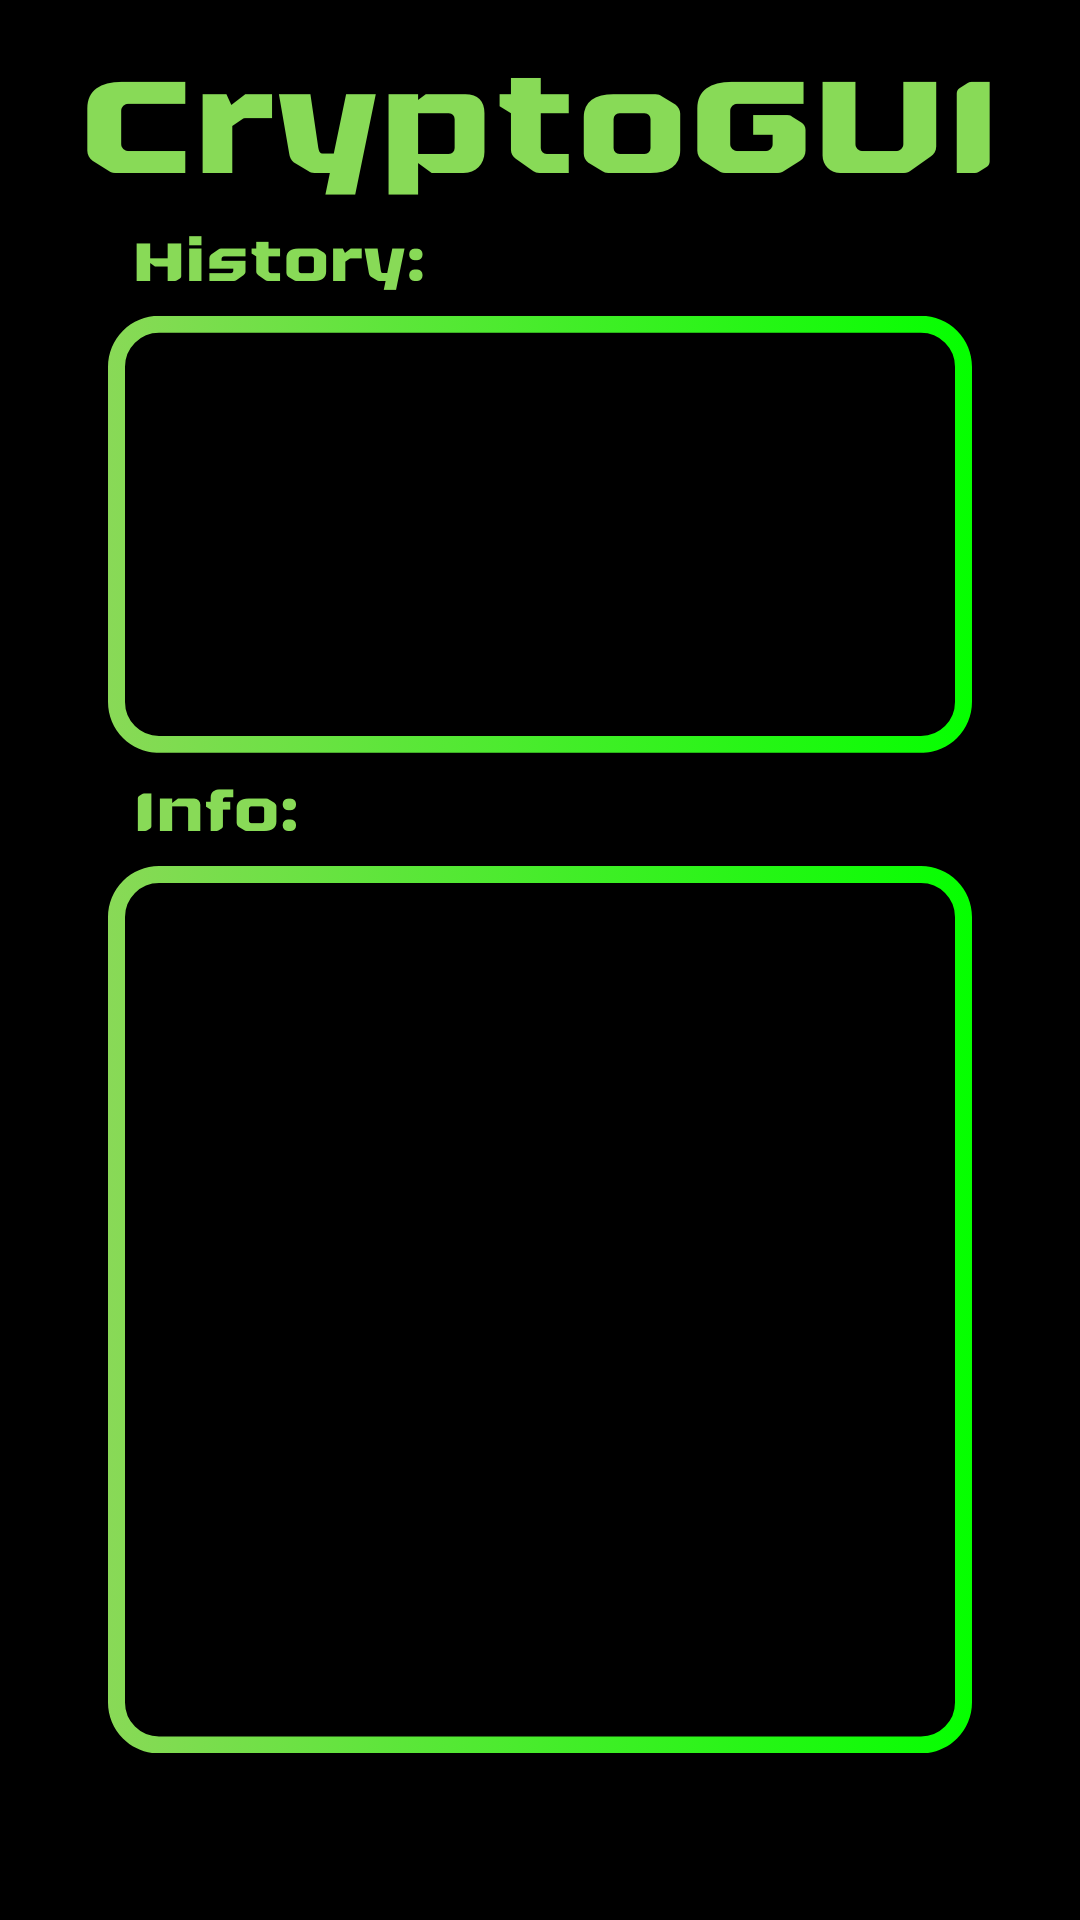
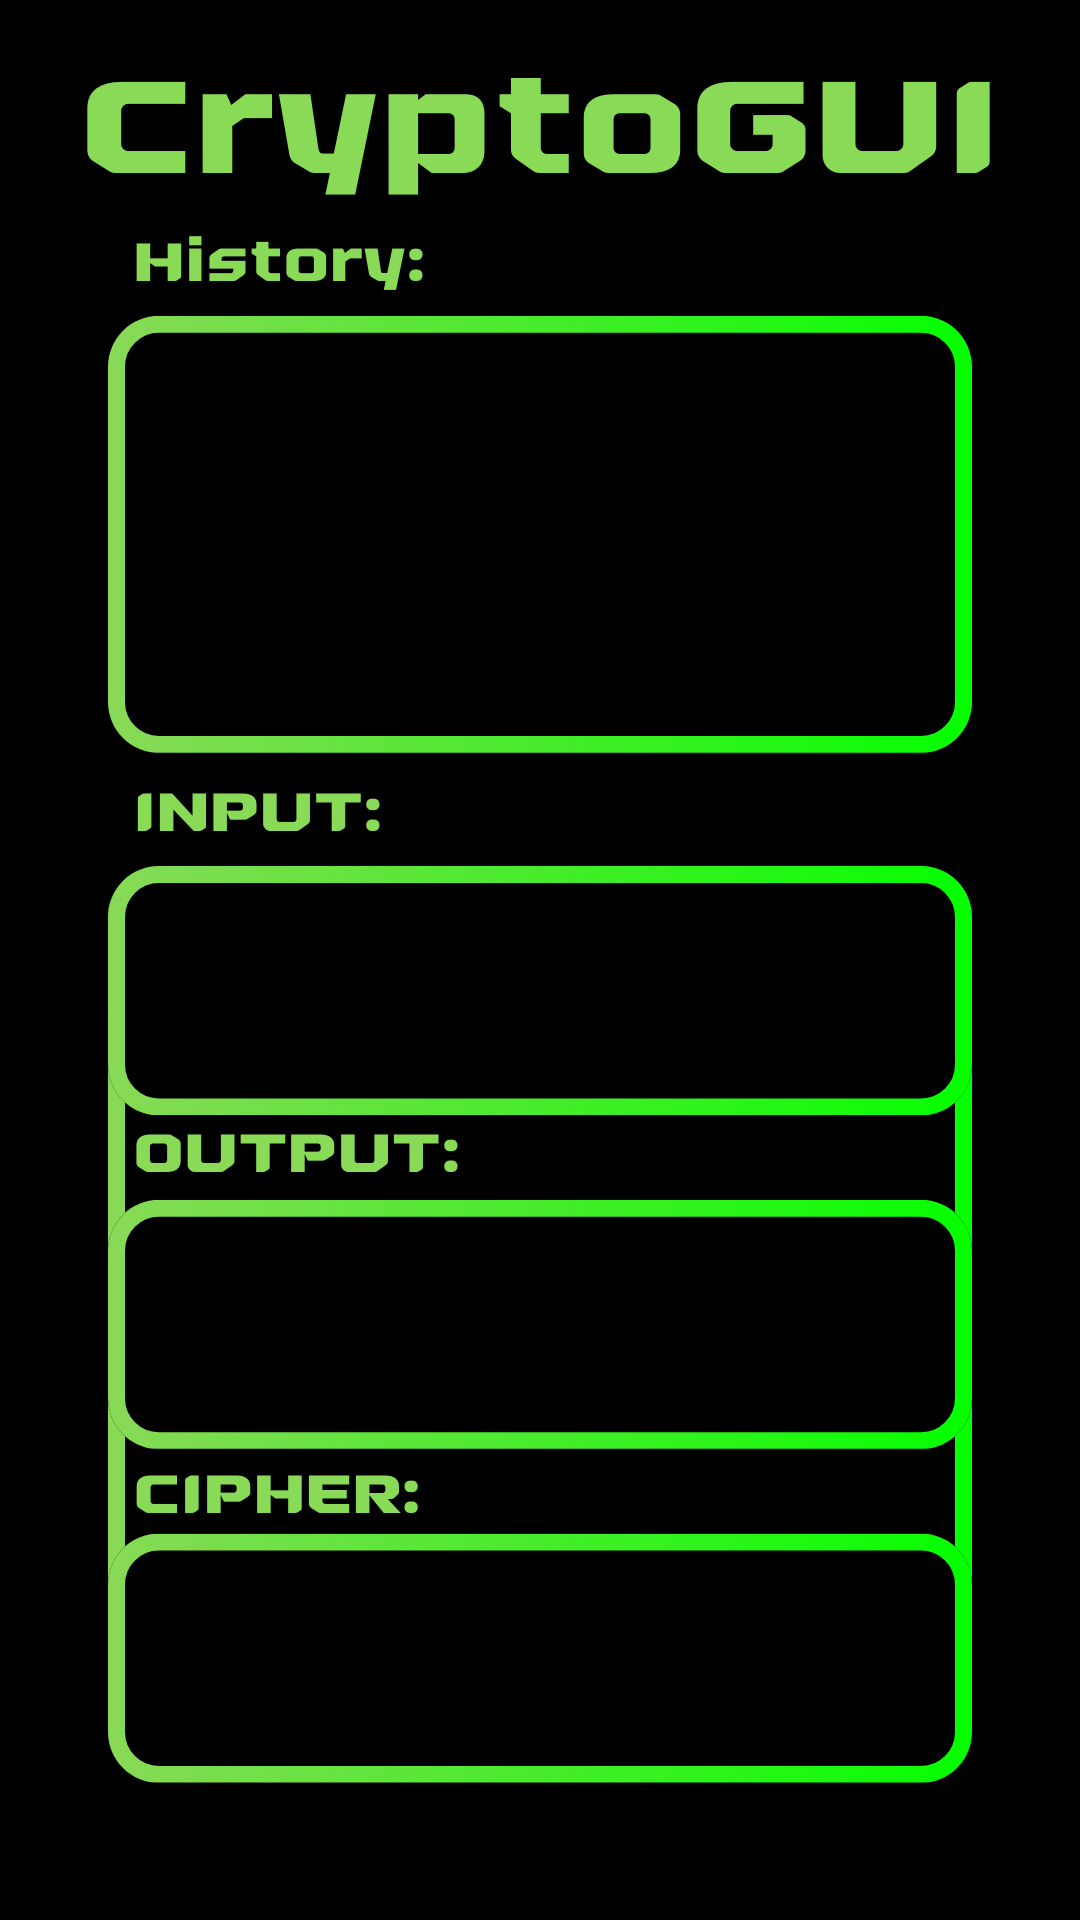
First working version.

diff --git a/Main/Main.go b/Main/Main.go
@@ -4,6 +4,9 @@ import (
 	"CryptoGUI/Base"
 	"CryptoGUI/Binary"
 	"CryptoGUI/Hex"
+	"CryptoGUI/JOSN"
+
+	"time"
 
 	"fyne.io/fyne/v2"
 	"fyne.io/fyne/v2/app"
@@ -16,6 +19,8 @@ func main() {
 	a := app.New()
 	w := a.NewWindow("CryptoGUI")
 	current := "blank"
+	historyload := JOSN.Load()
+
 	background, _ := fyne.LoadResourceFromPath("CryptoGUI.png")
 	back := canvas.NewImageFromResource(background)
 	back.FillMode = canvas.ImageFillStretch
@@ -26,18 +31,29 @@ func main() {
 	in.Resize(fyne.NewSize(232, 40))
 
 	view := widget.NewMultiLineEntry()
-	//view.Disable()
+
 	view.Move(fyne.NewPos(35, 275))
 	view.Resize(fyne.NewSize(232, 175))
-	ciphers := []string{"Base64", "Base32", "Hex", "Binary", "Caeser"}
+	ciphers := []string{"Base64", "Base32", "Hex", "Binary"}
 	drop := widget.NewSelect(ciphers, func(s string) {
 		current = s
+
 	})
 	drop.PlaceHolder = "Select Cipher"
 	drop.Move(fyne.NewPos(35, 190))
 	drop.Resize(fyne.NewSize(229, 40))
 	view.Wrapping = fyne.TextWrapWord
 	view.SetMinRowsVisible(3)
+	History := container.NewVBox()
+	INPUT := widget.NewMultiLineEntry()
+	INPUT.Wrapping = fyne.TextWrapWord
+	INPUT.SetMinRowsVisible(3)
+	OUTPUT := widget.NewMultiLineEntry()
+	OUTPUT.Wrapping = fyne.TextWrapWord
+	OUTPUT.SetMinRowsVisible(3)
+	CIPHER := widget.NewMultiLineEntry()
+	CIPHER.Wrapping = fyne.TextWrapWord
+	CIPHER.SetMinRowsVisible(3)
 	decode := widget.NewButton("Decode", func() {
 		switch current {
 
@@ -52,6 +68,28 @@ func main() {
 		default:
 			view.SetText("Choose a Chipher!!")
 		}
+		if in.Text != "" && view.Text != "Choose a Chipher!!" {
+			time := time.Now().Format("2006-01-02 PM 15:04:05")
+			first := in.Text
+			second := view.Text
+			Third := current
+			History.Add(widget.NewButton(time, func() {
+				INPUT.SetText(first)
+				OUTPUT.SetText(second)
+				CIPHER.SetText(Third)
+			}))
+			History.Refresh()
+			newrow := JOSN.History{
+				DateNtime: time,
+				INPUT:     in.Text,
+				OUTPUT:    view.Text,
+				CIPHER:    current,
+			}
+			historyload = append(historyload, newrow)
+			JOSN.Save(historyload)
+
+		}
+
 	})
 	decode.Resize(fyne.NewSize(95, 47))
 	decode.Move(fyne.NewPos(35, 495))
@@ -69,10 +107,38 @@ func main() {
 		default:
 			view.SetText("Choose a Chipher!!")
 		}
+		if in.Text != "" && view.Text != "Choose a Chipher!!" {
+			time := time.Now().Format("2006-01-02 PM 15:04:05")
+			first := in.Text
+			second := view.Text
+			Third := current
+			History.Add(widget.NewButton(time, func() {
+				INPUT.SetText(first)
+				OUTPUT.SetText(second)
+				CIPHER.SetText(Third)
+			}))
+			History.Refresh()
+			newrow := JOSN.History{
+				DateNtime: time,
+				INPUT:     in.Text,
+				OUTPUT:    view.Text,
+				CIPHER:    current,
+			}
+			historyload = append(historyload, newrow)
+			JOSN.Save(historyload)
+		}
 	})
 	encode.Resize(fyne.NewSize(95, 47))
 	encode.Move(fyne.NewPos(170, 495))
+	for _, Each := range historyload {
+		History.Add(widget.NewButton(Each.DateNtime, func() {
+			INPUT.SetText(Each.INPUT)
+			OUTPUT.SetText(Each.OUTPUT)
+			CIPHER.SetText(Each.CIPHER)
+		}))
 
+	}
+	History.Refresh()
 	container1 := container.NewWithoutLayout(back, in, view, drop, decode, encode)
 
 	background2, _ := fyne.LoadResourceFromPath("CryptoGUIHistory.png")
@@ -80,14 +146,25 @@ func main() {
 	back2.FillMode = canvas.ImageFillStretch
 	back2.Resize(fyne.NewSize(300, 600))
 
-	container2 := container.NewWithoutLayout(back2)
+	scroll := container.NewScroll(History)
+
+	scroll.Move(fyne.NewPos(35, 105))
+	scroll.Resize(fyne.NewSize(230, 120))
+	INPUT.Move(fyne.NewPos(35, 275))
+	INPUT.Resize(fyne.NewSize(231, 70))
+	OUTPUT.Move(fyne.NewPos(35, 380))
+	OUTPUT.Resize(fyne.NewSize(231, 67))
+	CIPHER.Move(fyne.NewPos(35, 485))
+	CIPHER.Resize(fyne.NewSize(231, 67))
+
+	container2 := container.NewWithoutLayout(back2, scroll, INPUT, OUTPUT, CIPHER)
 	tabs := container.NewAppTabs(
 		container.NewTabItem("Tool", container1),
 		container.NewTabItem("History", container2),
 	)
 	w.SetContent(tabs)
 	w.SetFixedSize(true)
-	w.Resize(fyne.NewSize(300, 600))
+	w.Resize(fyne.NewSize(300, 630))
 
 	w.ShowAndRun()
 }

diff --git a/JOSN/JSON.go b/JOSN/JSON.go
@@ -1,0 +1,28 @@
+package JOSN
+
+import (
+	"encoding/json"
+	"os"
+)
+
+type History struct {
+	DateNtime string `json:"TIMESTAMP"`
+	INPUT     string `json:"INPUT"`
+	OUTPUT    string `json:"OUTPUT"`
+	CIPHER    string `json:"CIPHER"`
+}
+
+func Save(things []History) {
+
+	data, _ := json.MarshalIndent(things, "", "  ")
+	os.WriteFile("history.json", data, 0644)
+}
+
+func Load() []History {
+	here, _ := os.ReadFile("history.json")
+	var history []History
+	json.Unmarshal(here, &history)
+
+	return history
+
+}
